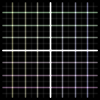
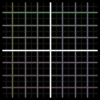
Updated demos

diff --git a/generate_demos.py b/generate_demos.py
@@ -39,12 +39,12 @@ def simple_circles():
     t = np.arange(0, 2*np.pi, 2*np.pi/n) + np.pi/6
     x,y = np.cos(t), np.sin(t)
 
-    circle(x=x[0], y=y[0], r=1, color=[0,255,0])(c)
-    circle(x=x[1], y=y[1], r=1, color=[255,0,0])(c)
-    circle(x=x[2], y=y[2], r=1, color=[0,0,255])(c)
+    circle(x=x[0], y=y[0], r=1, color=[0,255,0],mode='add')(c)
+    circle(x=x[1], y=y[1], r=1, color=[255,0,0],mode='add')(c)
+    circle(x=x[2], y=y[2], r=1, color=[0,0,255],mode='add')(c)
 
     # An example of not saturating the images together
-    circle(x=0, y=0, r=0.25, color=[155,155,155], blend=False)(c)
+    circle(x=0, y=0, r=0.25, color=[155,155,155])(c)
     
     return c
 
@@ -60,23 +60,24 @@ def simple_rectangles():
 
 def simple_lines():
     c = Canvas(**canvas_args)
-    
-    line(x=-4, y=0, x1=4, y1=0, thickness=0.05)(c)
-    line(x=0, y=4, x1=0, y1=-4, thickness=0.05)(c)
 
     tc = 0.04
+
+ 
+    for i in np.arange(-4,5,.5):
+        line(x=-4, y=i, x1=4, y1=i,
+             thickness=tc, color=[20,]*3)(c)
+        line(x=i, y=4, x1=i, y1=-4,
+             thickness=tc, color=[20,]*3)(c)
 
     for i in np.arange(-4,5,1):
         line(x=-4, y=i, x1=4, y1=i, thickness=tc,
              color=[100,int(100+i*10),100])(c)
         line(x=i, y=4, x1=i, y1=-4, thickness=tc,
              color=[100,100,int(100+i*10)])(c)
-
-    for i in np.arange(-4,5,.5):
-        line(x=-4, y=i, x1=4, y1=i,
-             thickness=tc, color=[20,]*3)(c)
-        line(x=i, y=4, x1=i, y1=-4,
-             thickness=tc, color=[20,]*3)(c)
+    
+    line(x=-4, y=0, x1=4, y1=0, thickness=0.05)(c)
+    line(x=0, y=4, x1=0, y1=-4, thickness=0.05)(c)
 
     return c
 
@@ -111,10 +112,10 @@ def teyleen_116():
     pal = palettes(152)
 
     x = 0.25
-    circle(x=x,y=x, r=x/2, color=pal[0])
-    circle(x=-x,y=x, r=x/2, color=pal[1])
-    circle(x=x,y=-x, r=x/2, color=pal[2])
-    circle(x=-x,y=-x, r=x/2, color=pal[3])
+    circle(x=x,y=x, r=x/2, color=pal[0])(c)
+    circle(x=-x,y=x, r=x/2, color=pal[1])(c)
+    circle(x=x,y=-x, r=x/2, color=pal[2])(c)
+    circle(x=-x,y=-x, r=x/2, color=pal[3])(c)
 
     circle(y=x/2, r=2-x, color=pal[4],thickness=x/20)(c)
     circle(y=-x/2, r=2-x, color=pal[4],thickness=x/20)(c)
@@ -129,8 +130,8 @@ def rotating_circles():
     A = Animation(**animation_args)
     x = motion.easeReturn('easeInOutQuad', -1, 1, len(A))
 
-    A.add(circle(x=x, y=1, r=1.25,color=[0,250,150]))
-    A.add(circle(x=-x, y=-1, r=1.25,color=[255,5,100]))
+    A.add(circle(x=x, y=1, r=1.25,color=[0,250,150],mode='add'))
+    A.add(circle(x=-x, y=-1, r=1.25,color=[255,5,100],mode='add'))
         
     return A
 
@@ -142,18 +143,20 @@ def checkerboard():
     r = 0.20
     c = [150, 250, 0]
     coord = [-2, 0, 2]
+    args = {"r":r, "color":c, "mode":"add"}
 
     for dx, dy in itertools.product(coord, repeat=2):
-        A.add(circle(x=z+dx, y=z+dy, r=r,color=c))
-        A.add(circle(x=z+dx, y=-z+dy, r=r,color=c))
-        A.add(circle(x=-z+dx, y=-z+dy, r=r,color=c))
-        A.add(circle(x=-z+dx, y=z+dy, r=r,color=c))
+        A.add(circle(x=z+dx, y=z+dy, **args))
+        A.add(circle(x=z+dx, y=-z+dy, **args))
+        A.add(circle(x=-z+dx, y=-z+dy, **args))
+        A.add(circle(x=-z+dx, y=z+dy, **args))
 
-        A.add(circle(x=dx, y=z+dy, r=r,color=c))
-        A.add(circle(x=z+dx, y=dy, r=r,color=c))
+        A.add(circle(x=dx, y=z+dy, **args))
+        A.add(circle(x=z+dx, y=dy, **args))
 
-        A.add(circle(x=dx, y=-z+dy, r=r,color=c))
-        A.add(circle(x=-z+dx, y=dy, r=r,color=c))
+        A.add(circle(x=dx, y=-z+dy, **args))
+        
+        A.add(circle(x=-z+dx, y=dy, **args))
     
     return A
 
@@ -173,6 +176,7 @@ def timer():
             x1=r*np.cos(theta),
             y1=r*np.sin(theta),
             thickness=tc, color='indigo',
+            mode='add',
         )
         A.add(L)
         

diff --git a/pixelhouse/canvas.py b/pixelhouse/canvas.py
@@ -18,7 +18,7 @@ class Canvas():
             name='pixelhouseImage',
     ):
         channels = 4
-        self._img = np.ones((height, width, channels), np.uint8)
+        self._img = 0*np.ones((height, width, channels), np.uint8)
 
         self.bg = bg
         #bg = np.array(self.transform_color(bg)).astype(np.uint8)
@@ -150,7 +150,7 @@ class Canvas():
 
         # Force add in the alpha channel
         if len(c) == 3:
-            c += [255,]
+            c = list(c) + [255,]
 
         return c
 
